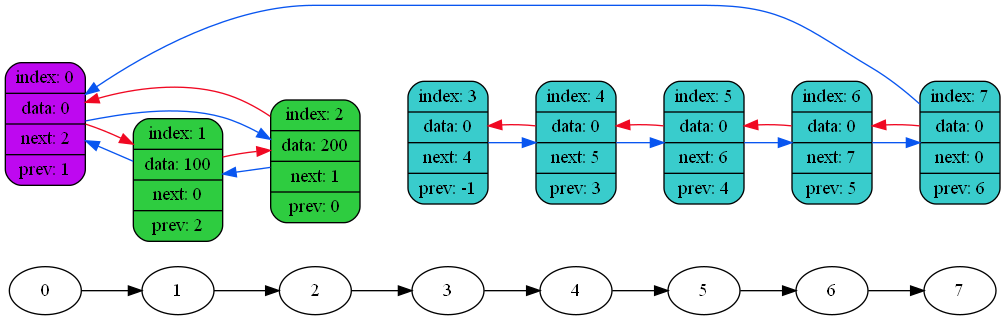
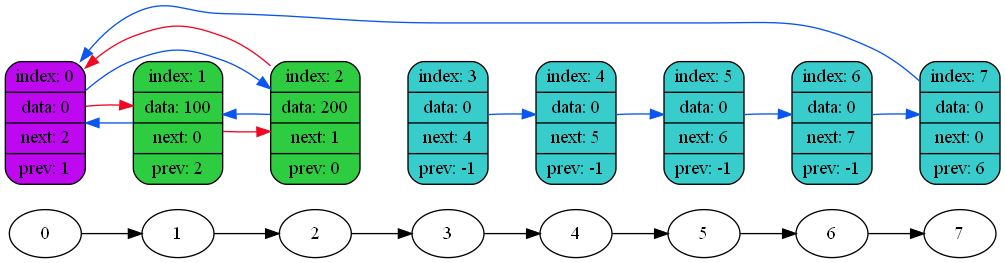
finally multiple dumping in html

diff --git a/list_dump.html b/list_dump.html
@@ -5,9 +5,9 @@ curr data next prev
    1  100    0    2
    2  200    1    0
    3    0    4   -1
-   4    0    5    3
-   5    0    6    4
-   6    0    7    5
+   4    0    5   -1
+   5    0    6   -1
+   6    0    7   -1
    7    0    0    6
 <img src=data\dump1.png>
 MEMORY PRINT
@@ -18,7 +18,7 @@ curr data next prev
    3  300    5   -1
    4  600    0    1
    5    0    6    3
-   6    0    7    5
+   6    0    7   -1
    7    0    0    6
 <img src=data\dump2.png>
 MEMORY PRINT

diff --git a/src/my_list.cpp b/src/my_list.cpp
@@ -16,7 +16,7 @@ list_t list_ctor()
     for (size_t i = 1; i < max_list_size - 1; i++)
     {
         lst.next[i] = (int)i + 1;
-        lst.prev[i] = (int)i - 1;
+        lst.prev[i] = -1;
     }
     lst.prev[max_list_size - 1] = max_list_size - 2;
     lst.next[max_list_size - 1] = 0;
@@ -29,6 +29,35 @@ int list_dtor(list_t* lst)
     assert(lst);
     memset(lst, 0, sizeof(*lst));
     lst = NULL;
+
+    return 0;
+}
+
+int list_verify(list_t* lst)
+{
+    assert(lst);
+
+    int i = 0;
+    while (i != PREV(0))
+    {
+        if (PREV(NEXT(i)) != i || NEXT(PREV(i)) != (size_t)i)
+        {
+            fprintf(stderr, "VERIFICATION FAILED ON NODE %d\n", i);
+            return i;
+        }
+        i = NEXT(i);
+    }
+
+    /*i = NEXT(lst -> free);
+    while (NEXT(i) != 0)
+    {
+        if (PREV(NEXT(i)) != i || NEXT(PREV(i)) != (size_t)i)
+        {
+            fprintf(stderr, "VERIFICATION FAILED ON NODE %d\n", i);
+            return i;
+        }
+        i = NEXT(i);
+    }*/
 
     return 0;
 }
@@ -61,11 +90,12 @@ int list_dump(list_t* lst, FILE* html_stream)
     }
 
     make_dot_file(lst, fp);
+    fclose(fp);
 
     char command[BUFSIZ] = "";
-    sprintf(command, "dot %s -Tpng -o %s", dot_file_name, png_file_name);
-    WinExec((const char*)command, 1);
-    printf("%s\n", command);
+    sprintf(command, "dot %s -Tpng -o %s\n", dot_file_name, png_file_name);
+    int x = system((const char*)command);
+    printf("x = %d\n%s\n", x, command);
 
     fprintf(html_stream, "MEMORY PRINT\n");
     fprintf(html_stream, "curr data next prev\n");
@@ -127,24 +157,17 @@ int make_dot_file(list_t* lst, FILE* fp)
     i = 0;
     while (i != PREV(0)) //last case differ
     {
-        fprintf(fp, "    node%d -> node%d[color=\"#0855F0\"]\n", i, NEXT(i));
-        fprintf(fp, "    node%d -> node%d[color=\"#F00822\"]\n", NEXT(i), i);
+        fprintf(fp, "    node%d -> node%d[color=\"#0855F0\",constraint=false]\n", i, NEXT(i));
+        fprintf(fp, "    node%d -> node%d[color=\"#F00822\",constraint=false]\n", NEXT(i), i);
         i = NEXT(i);
     }
-    fprintf(fp, "    node%d -> node0[color=\"#0855F0\"]\n\n", i);
-    fprintf(fp, "    node%d -> node%d[color=\"#F00822\"]\n", NEXT(i), i);
+    fprintf(fp, "    node%d -> node0[color=\"#0855F0\",constraint=false]\n\n", i);
+    fprintf(fp, "    node%d -> node%d[color=\"#F00822\",constraint=false]\n", NEXT(i), i);
 
     i = lst -> free;
     while (i != 0)
     {
-        fprintf(fp, "    node%d -> node%d[color=\"#0855F0\"]\n", i, NEXT(i));
-        i = NEXT(i);
-    }
-
-    i = NEXT(lst -> free);
-    while (i != 0)
-    {
-        fprintf(fp, "    node%d -> node%d[color=\"#F00822\"]\n", i, PREV(i));
+        fprintf(fp, "    node%d -> node%d[color=\"#0855F0\",constraint=false]\n", i, NEXT(i));
         i = NEXT(i);
     }
 

diff --git a/headers/my_list.h b/headers/my_list.h
@@ -22,6 +22,8 @@ struct list_t
 list_t list_ctor();
 int list_dtor(list_t* lst);
 
+int list_verify(list_t* lst);
+
 FILE* prepare_html();
 int list_dump(list_t* lst, FILE* stream);
 int make_dot_file(list_t* lst, FILE* fp);

diff --git a/src/main.cpp b/src/main.cpp
@@ -27,7 +27,6 @@ int main ()
 
     list_dump(&lst, html_stream);
     list_dtor(&lst);
-    WinExec("dot data\\dump1.dot -Tpng -o data\\dump1.png", 1);
 
     fclose(html_stream);
     return 0;
